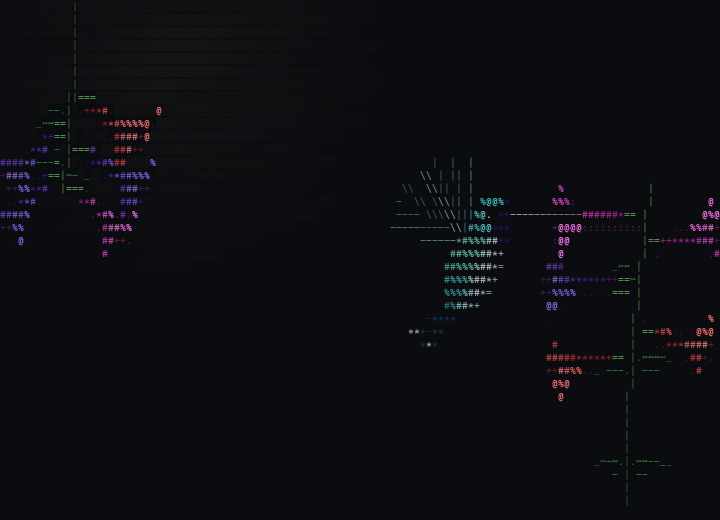
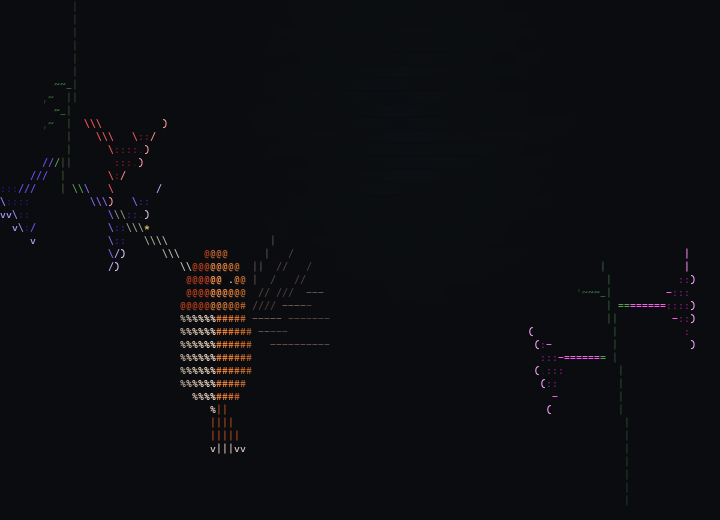
hummingbird: clean silhouette, trumpet flowers, calmer background

diff --git a/terrarium/scenes/hummingbird.py b/terrarium/scenes/hummingbird.py
@@ -11,6 +11,7 @@ import math
 from ..engine import ASPECT, Scene, clamp, hsv, mix, noise1, scale, smoothstep
 
 TAU = math.tau
+PI = math.pi
 
 FLOWER_HUES = {"red": 0.995, "orange": 0.06, "pink": 0.93, "purple": 0.8, "yellow": 0.13}
 # back colour, belly colour, gorget hue, tail colour
@@ -58,17 +59,17 @@ class Plant:
         self.lean = lean
         self.phase = rng.uniform(0, TAU)
         self.flowers = []
-        n = rng.randint(3, 6)
+        n = rng.randint(2, 4)
         for k in range(n):
-            at = 0.45 + 0.55 * (k + rng.uniform(0.0, 0.6)) / n
+            at = 0.5 + 0.5 * (k + rng.uniform(0.2, 0.7)) / n
             side = rng.choice((-1, 1)) if kind == "vine" else (1 if k % 2 else -1)
             if kind == "spike":
                 ang = rng.uniform(-0.35, 0.2)
             else:
                 ang = rng.uniform(-0.75, -0.4)
-            self.flowers.append(Trumpet(self, at, side, ang, L * rng.uniform(1.4, 1.8), L * rng.uniform(0.5, 0.62),
+            self.flowers.append(Trumpet(self, at, side, ang, L * rng.uniform(1.15, 1.4), L * rng.uniform(0.55, 0.65),
                                         rng.choice(cols)))
-        self.leaves = [(rng.uniform(0.1, 0.9), rng.choice((-1, 1)), rng.uniform(0.6, 1.2)) for _ in range(rng.randint(2, 5))]
+        self.leaves = [(rng.uniform(0.1, 0.9), rng.choice((-1, 1)), rng.uniform(0.6, 1.2)) for _ in range(rng.randint(0, 2))]
         self.sway = 0.0
 
     def point(self, s):
@@ -91,7 +92,7 @@ class Bird:
         j = lambda c: tuple(clamp(v + rng.uniform(-15, 15), 0, 255) for v in c)
         self.back, self.belly, self.tailc = j(back), j(belly), j(tail)
         self.ghue = ghue + rng.uniform(-0.03, 0.03)
-        self.beak = rng.uniform(1.0, 1.4)
+        self.beak = rng.uniform(0.85, 1.1)
         self.curve = rng.uniform(-0.12, 0.05)
         self.rate = rng.uniform(0.8, 1.2)
         self.face = -enter_side
@@ -126,7 +127,7 @@ class Hummingbird(Scene):
         rng = self.rng
         w, h = self.w, self.h
         big = min(w, h * ASPECT)
-        self.L = L = clamp(big * rng.uniform(0.085, 0.105), 2.4, 12.0)
+        self.L = L = clamp(big * rng.uniform(0.115, 0.135), 2.6, 14.0)
         fc = self.opt("flower")
         if fc == "random":
             fc = rng.choice(list(FLOWER_HUES) + ["mixed", "mixed"])
@@ -138,7 +139,7 @@ class Hummingbird(Scene):
         cols = [hsv(hh, rng.uniform(0.7, 0.9), 1.0) for hh in hues]
         # plants: spikes from the ground and vines from the top, spread across the width
         self.plants = []
-        n = max(2, min(6, int(w / max(14.0, L * 5.5))))
+        n = max(2, min(5, int(w / max(18.0, L * 6.5))))
         slots = [(k + rng.uniform(0.2, 0.8)) / n * w for k in range(n)]
         for x in slots:
             kind = "spike" if rng.random() < 0.65 else "vine"
@@ -179,8 +180,8 @@ class Hummingbird(Scene):
                 if d < 1:
                     k = (1 - d) ** 2
                     n = noise1(x * 0.15 + y * 0.9, 3)
-                    if k * (0.7 + 0.3 * n) > 0.08:
-                        c = scale(mix(glow_c, tone, d), 0.08 + 0.42 * k * (0.75 + 0.25 * n))
+                    if k * (0.7 + 0.3 * n) > 0.18:
+                        c = scale(mix(glow_c, tone, d), 0.05 + 0.22 * k * (0.75 + 0.25 * n))
                         self.bg[y * w + x] = ("░", (int(c[0]) & ~3, int(c[1]) & ~3, int(c[2]) & ~3), 0.05)
         # a soft glow of distant light behind the leaves
         self.glow = (glow_x, glow_y, glow_c)
@@ -377,72 +378,89 @@ class Hummingbird(Scene):
             self.draw_bird(cv, b)
 
     def draw_plant(self, cv, p):
+        """A thin, graceful stem with one or two small leaves."""
         n = max(3, int(p.H / ASPECT * 1.3))
-        stem = (70, 140, 70) if p.kind == "spike" else (90, 120, 60)
+        stem = (60, 120, 70) if p.kind == "spike" else (80, 110, 60)
         px, py = p.point(0)
         for k in range(1, n + 1):
             s = k / n
             x, y = p.point(s)
-            cv.put(x, y, _dir_ch(x - px, y - py), scale(stem, 0.55 + 0.35 * s), level=0.5)
+            cv.put(x, y, _dir_ch(x - px, y - py), scale(stem, 0.5 + 0.3 * s), level=0.3)
             px, py = x, y
+        up = 1 if p.kind == "spike" else -1
+        tip_ch = "'" if up > 0 else ","
         for at, side, sz in p.leaves:
             x, y = p.point(at)
-            ln = max(2, int(self.L * 0.9 * sz))
+            ln = max(2, int(self.L * 0.5 * sz))
             for k in range(1, ln + 1):
                 q = k / ln
-                lx = x + side * k
-                ly = y - (0.5 * math.sin(q * math.pi) * (1 if p.kind == "spike" else -1)) - q * 0.6 * (1 if p.kind == "spike" else -1)
-                ch = "~" if 0.2 < q < 0.85 else ("_" if q >= 0.85 else ".")
-                cv.put(lx, ly, ch, scale((60, 150, 70), 0.5 + 0.4 * math.sin(q * math.pi)), level=0.5)
-                if 0.25 < q < 0.75 and ln > 3:
-                    cv.put(lx, ly + (1 if p.kind == "spike" else -1) * 0.6, "-", (40, 110, 55), level=0.4)
+                ch = "_" if q < 0.4 else ("~" if q < 0.85 else tip_ch)
+                cv.put(x + side * k, y - up * (q > 0.6) * 0.6, ch, scale((70, 150, 80), 0.45 + 0.3 * math.sin(q * PI)),
+                       level=0.3)
 
     def draw_trumpet(self, cv, f):
-        """A flared tube: narrow green calyx, glowing tube, a lobed mouth with a dark throat."""
+        """A slender tube that flares into a five-lobed mouth. Few glyph levels: a bright rim,
+        a deeper fill, a pale lobed lip and a dark throat."""
         h, w = self.h, self.w
         ax, ay = f.ax, f.ay
         L, R = f.L, f.r
         x0, y0 = f.x, f.y
-        ext = L * 1.15 + R * 1.4
+        Rm = R * 1.35
+        ext = L * 1.1 + Rm
+        k = 1.0 + 0.25 * f.pulse
         col = f.col
-        deep = mix(col, (90, 10, 40), 0.45)
-        lite = mix(col, (255, 240, 220), 0.35)
-        glow = 0.12 * f.pulse
+        rim_c = scale(mix(col, (255, 245, 235), 0.2), k)
+        fill_c = scale(mix(col, (70, 0, 40), 0.35), 0.8 * k)
+        lip_c = scale(mix(col, (255, 250, 245), 0.45), k)
+        tube_ch = "=" if abs(ay) < 0.45 else _dir_ch(ax, -ay / ASPECT)
+        along_ch = _dir_ch(ax, -ay / ASPECT)
+        across_ch = _dir_ch(-ay, -ax / ASPECT)
+        if abs(ax) > abs(ay) * 1.2:
+            tip_ch = ")" if ax > 0 else "("
+        else:
+            tip_ch = "v" if ay < 0 else "^"
+        cal = (90, 160, 80)
         for y in range(max(0, int(y0 - ext / ASPECT) - 1), min(h, int(y0 + ext / ASPECT) + 2)):
             dy = -(y + 0.5 - y0) * ASPECT
             for x in range(max(0, int(x0 - ext) - 1), min(w, int(x0 + ext) + 2)):
                 dx = x + 0.5 - x0
                 u = (dx * ax + dy * ay) / L               # along the tube 0..1
-                p = (-dx * ay + dy * ax)                  # across, units; + is the "upper" side
-                if u < -0.05 or u > 1.12:
+                if u < 0.0 or u > 1.1:
                     continue
-                if u < 0.15:
-                    r = R * 0.3
-                else:
-                    r = R * (0.24 + 0.76 * smoothstep(0.5, 1.0, u) ** 2.2)
-                if u > 0.94:                              # mouth: lobed, curled-back flare
-                    lobe = 1.45 + 0.2 * math.cos(p / R * 4.5)
-                    r = R * lobe * (1 - (u - 0.94) / 0.18)
+                p = -dx * ay + dy * ax                    # across, units
                 ap = abs(p)
-                if ap > r + 0.6:
+                if u < 0.9:
+                    r = max(0.5, R * (0.16 + 0.84 * smoothstep(0.5, 0.92, u) ** 1.6))
+                    if ap > r:
+                        continue
+                    if u < 0.12:
+                        cv.put(x, y, tube_ch, cal, level=0.6)
+                    elif r < 1.2:
+                        cv.put(x, y, tube_ch, rim_c, level=0.6)
+                    elif ap > r - 0.8:
+                        cv.put(x, y, along_ch, rim_c, level=0.7)
+                    else:
+                        cv.put(x, y, ":", fill_c, level=0.6)
                     continue
-                if ap > r:
-                    cv.shade(x, y, 0.12 + glow, col)
+                # the mouth: five lobes across the opening, each with a rounded edge
+                s = p / Rm
+                if abs(s) > 1.0:
                     continue
-                if u < 0.15:
-                    cv.put(x, y, "=", (80, 150, 70), level=0.6)
+                lob = (s + 1.0) * 2.5                     # 0..5 across the five lobes
+                fr = lob - int(lob) - 0.5
+                edge = 0.9 + 0.13 * math.cos(fr * PI) * (1 - 0.3 * s * s)
+                if u > edge:
                     continue
-                side = p / max(r, 0.3)
-                v = 0.55 + 0.25 * u + 0.2 * max(0.0, side) + glow
-                c = mix(deep, lite, clamp(u * 0.8 + 0.4 * side))
-                if u > 0.96 and ap < R * 0.35:
-                    c = mix(c, (60, 10, 30), 0.6)            # the dark throat
-                    v = 0.5
-                if u > 0.5 and abs(side) < 0.25 and u < 0.96:
-                    c = mix(c, (255, 250, 230), 0.2)        # a glossy streak
-                cv.shade(x, y, clamp(v), c, mode="over")
+                if abs(s) < 0.32 and u < edge - 0.04:
+                    cv.put(x, y, ".", (70, 20, 40), level=0.7)       # the dark throat
+                elif u > edge - 0.06 and abs(fr) < 0.3:
+                    cv.put(x, y, tip_ch, scale(lip_c, 1.15), level=0.9)   # lobe tips
+                else:
+                    cv.put(x, y, across_ch, lip_c, level=0.8)
 
     def draw_bird(self, cv, b):
+        """Clean silhouette: wing blur behind, a dark margin cut round the body, then a rounded
+        body with few glyph levels, a bright gorget, a thin beak and a fanned tail."""
         L = b.L
         t = self.t
         w, h = self.w, self.h
@@ -450,16 +468,34 @@ class Hummingbird(Scene):
         al = b.alpha
         ca, sa = math.cos(al), math.sin(al)
         beta = -1.0 + b.curve
-        # iridescent gorget: dark most of the time, blazing when the angle catches the light
+        # iridescent gorget: always jewel-bright, blazing and shifting hue when the angle is right
         g = math.sin(t * 0.9 + b.glint_seed) * 0.6 + math.sin(t * 2.3 + b.glint_seed * 2) * 0.4 + b.turn * 1.2
         flash = clamp((g + 0.15) * 1.6)
-        gorget = hsv(b.ghue + 0.04 * math.sin(t * 1.7 + b.glint_seed), 0.85, 0.25 + 0.75 * flash)
+        gorget = hsv(b.ghue + 0.05 * math.sin(t * 1.7 + b.glint_seed) - 0.04 * flash, 0.9 - 0.25 * flash,
+                     0.7 + 0.3 * flash)
         sheen = 0.5 + 0.5 * math.sin(t * 1.3 + b.glint_seed)
-        ext = L * 2.6
+        # wings first: a faint fan behind the bird, plus one strobed blade
+        shx = b.x + (ca * 0.3 - sa * 0.32) * L * face
+        shy = b.y - (sa * 0.3 + ca * 0.32) * L / ASPECT
+        darting = b.state == "dart" and 0.1 < b.prog < 0.9
+        a0, a1 = (al + 0.45, al + 1.75) if not darting else (al + 0.9, al + 1.7)
+        wl = 1.6 * L
+        wing_col = mix(b.back, (200, 220, 235), 0.6)
+        nf = 6
+        for k in range(nf):
+            q = k / (nf - 1)
+            edge = abs(2 * q - 1)
+            self.blade(cv, shx, shy, a0 + (a1 - a0) * q, wl, face, 0.1 + 0.16 * edge ** 3, wing_col)
+        sp = 0.5 + 0.5 * math.sin(b.wphase)
+        self.blade(cv, shx, shy, a0 + (a1 - a0) * sp, wl, face, 0.34, wing_col)
+        # classify silhouette cells
+        ext = L * 2.4
         x0, x1 = max(0, int(b.x - ext)), min(w, int(b.x + ext) + 1)
         y0, y1 = max(0, int(b.y - ext / ASPECT)), min(h, int(b.y + ext / ASPECT) + 1)
-        tail_tau = -0.35 + 0.12 * math.sin(t * 3 + b.glint_seed)
+        tail_tau = -0.3 + 0.12 * math.sin(t * 3 + b.glint_seed)
         tc, ts = math.cos(tail_tau), math.sin(tail_tau)
+        tail_ch = _dir_ch(-math.cos(al + tail_tau) * face, math.sin(al + tail_tau) / ASPECT)
+        cells = {}
         eye = None
         inv = 1.0 / L
         for y in range(y0, y1):
@@ -468,83 +504,68 @@ class Hummingbird(Scene):
                 wx = (x + 0.5 - b.x) * inv * face
                 u = wx * ca + wy * sa                      # along the body, toward the head
                 v = -wx * sa + wy * ca                     # + is the back
-                col = None
-                # head
                 hu, hv = u - 1.05, v - 0.05
-                hd = hu * hu + hv * hv
-                if hd < 0.46 * 0.46:
-                    d = math.sqrt(hd) / 0.46
-                    lit = 0.55 + 0.4 * (1 - d * d) ** 0.5 + 0.15 * (hv > 0)
-                    if hv < -0.08 and hu > -0.3:
-                        col = gorget
-                        lit = 0.5 + 0.5 * flash
-                    else:
-                        col = mix(b.back, (255, 255, 200), 0.25 * sheen * (1 - d))
-                    if abs(hu - 0.13) < 0.11 and abs(hv - 0.1) < 0.11:
+                hd = math.sqrt(hu * hu + hv * hv) / 0.5
+                if hd < 1.0:
+                    if abs(hu - 0.16) < 0.12 and abs(hv - 0.12) < 0.13:
                         eye = (x, y)
-                    cv.shade(x, y, clamp(lit), col, mode="over")
+                    reg = "throat" if (hv < -0.12 and hu > -0.35) else "crown"
+                    cells[(x, y)] = (reg, hd)
                     continue
-                # body: a teardrop, a little fuller at the chest
-                bw = 0.0
-                if -1.05 < u < 1.15:
-                    lim = (1 - (u / 1.15) ** 4) if u > 0 else (1 - (u / 1.05) ** 2)
-                    bw = 0.56 * (1 - 0.18 * u) * max(0.0, lim) ** 0.5
-                if bw > 0 and abs(v) < bw:
-                    nv = v / bw
-                    lit = 0.5 + 0.35 * (1 - nv * nv) ** 0.5 + 0.12 * nv
-                    if v > 0.02:
-                        col = mix(b.back, (255, 240, 120), 0.3 * sheen * clamp(1 - abs(u - 0.2)))
-                        col = mix(col, scale(b.back, 0.55), clamp(-u * 0.6))
-                    elif u > 0.65:
-                        col = gorget
-                        lit = 0.45 + 0.55 * flash
-                    else:
-                        col = mix(b.belly, b.back, clamp(0.4 + nv * 0.8 + (u < -0.5) * 0.3))
-                    cv.shade(x, y, clamp(lit), col, mode="over")
-                    continue
-                # tail: a fan of feathers off the back end, cocked a little
-                ru, rv = u + 0.9, v + 0.02
+                if -0.9 < u < 1.1:
+                    lim = (1 - (u / 1.1) ** 4) if u > 0 else (1 - (u / 0.9) ** 2)
+                    bw = 0.62 * (1 - 0.12 * u) * max(0.0, lim) ** 0.5
+                    if abs(v) < bw:
+                        e = abs(v) / bw
+                        reg = "back" if v > 0.05 else ("throat" if u > 0.7 else "belly")
+                        cells[(x, y)] = (reg, e)
+                        continue
+                ru, rv = u + 0.7, v + 0.02
                 tu = ru * tc + rv * ts
                 tv = -ru * ts + rv * tc
-                if -1.15 < tu < 0:
-                    spread = 0.12 + 0.24 * (-tu / 1.15)
+                if -0.9 < tu < 0:
+                    spread = 0.1 + 0.24 * (-tu / 0.9)
                     if abs(tv) < spread:
-                        fe = (tv / spread * 2.5) % 1.0
-                        notch = (fe < 0.15 or fe > 0.85) and tu < -0.5
-                        tip = tu < -0.95
-                        c = mix(b.tailc, (250, 250, 250), 0.85) if tip and abs(tv) > spread * 0.5 else b.tailc
-                        cv.shade(x, y, 0.35 if notch else 0.62, c, mode="over")
-        # eye: a black bead with a white glint and a pale spot behind
+                        cells[(x, y)] = ("tip" if tu < -0.74 else "tail", abs(tv) / spread)
+        # cut a dark margin so the bird stands clear of flowers and wing blur
+        for (x, y) in cells:
+            for ox, oy in ((1, 0), (-1, 0), (0, 1), (0, -1)):
+                q = (x + ox, y + oy)
+                if q not in cells and 0 <= q[0] < w and 0 <= q[1] < h:
+                    i = q[1] * w + q[0]
+                    cv.ch[i] = " "
+                    cv.fg[i] = None
+                    cv.lv[i] = 0.0
+        back = mix(b.back, (255, 245, 150), 0.3 * sheen)
+        for (x, y), (reg, e) in cells.items():
+            k = 1.0 - 0.3 * e * e
+            if reg == "crown":
+                ch, c = "@", mix(back, (255, 255, 220), 0.15 * (1 - e))
+            elif reg == "back":
+                ch, c = "#", back
+            elif reg == "throat":
+                ch, c, k = "@", gorget, 1.0 - 0.15 * e
+            elif reg == "belly":
+                ch, c = "%", b.belly
+            elif reg == "tail":
+                ch, c, k = tail_ch, b.tailc, 0.85
+            else:
+                ch, c, k = ("v" if e > 0.4 else tail_ch), mix(b.tailc, (250, 250, 250), 0.8), 0.9
+            cv.put(x, y, ch, scale(c, k), level=1.0)
         if eye:
             ex, ey = eye
-            cv.put(ex, ey, "o", (15, 15, 20), level=1.0)
-            cv.put(ex - face, ey, ".", (240, 240, 240), level=1.0)
-        # beak
-        bl = (0.4 + b.beak) * L
-        sx = b.x + (math.cos(al) * 1.05 + math.cos(al + beta) * 0.38) * L * face
-        sy = b.y - (math.sin(al) * 1.05 + math.sin(al + beta) * 0.38) * L / ASPECT
+            cv.put(ex, ey, "o", (10, 10, 14), level=1.0)
+            cv.put(ex - face, ey, ".", (250, 250, 250), level=1.0)
+        # beak: one clean thin line
+        bl = (0.42 + b.beak) * L
+        sx = b.x + (ca * 1.05 + math.cos(al + beta) * 0.46) * L * face
+        sy = b.y - (sa * 1.05 + math.sin(al + beta) * 0.46) * L / ASPECT
         bdx, bdy = math.cos(al + beta) * face, -math.sin(al + beta) / ASPECT
         n = max(2, int(bl * 1.1))
         ch = _dir_ch(bdx, bdy)
         for k in range(n + 1):
             q = k / n
-            cv.put(sx + bdx * bl * q, sy + bdy * bl * q, ch, scale((170, 160, 150), 1 - 0.35 * q), level=1.0)
-        # wings: a blurred fan above the back plus one strobed blade
-        shx = b.x + (ca * 0.3 - sa * 0.32) * L * face
-        shy = b.y - (sa * 0.3 + ca * 0.32) * L / ASPECT
-        darting = b.state == "dart" and 0.1 < b.prog < 0.9
-        a0, a1 = (al + 0.4, al + 1.8) if not darting else (al + 0.9, al + 1.7)
-        wl = 1.75 * L
-        wing_col = mix(b.back, (210, 230, 240), 0.55)
-        nf = 7
-        for k in range(nf):
-            q = k / (nf - 1)
-            a = a0 + (a1 - a0) * q
-            edge = abs(2 * q - 1)
-            val = 0.16 + 0.3 * edge ** 3
-            self.blade(cv, shx, shy, a, wl, face, val, wing_col)
-        sp = 0.5 + 0.5 * math.sin(b.wphase)
-        self.blade(cv, shx, shy, a0 + (a1 - a0) * sp, wl, face, 0.6, mix(wing_col, (255, 255, 255), 0.2))
+            cv.put(sx + bdx * bl * q, sy + bdy * bl * q, ch, scale((215, 205, 190), 1 - 0.3 * q), level=1.0)
 
     def blade(self, cv, sx, sy, a, length, face, val, col):
         dx, dy = math.cos(a) * face, -math.sin(a) / ASPECT
